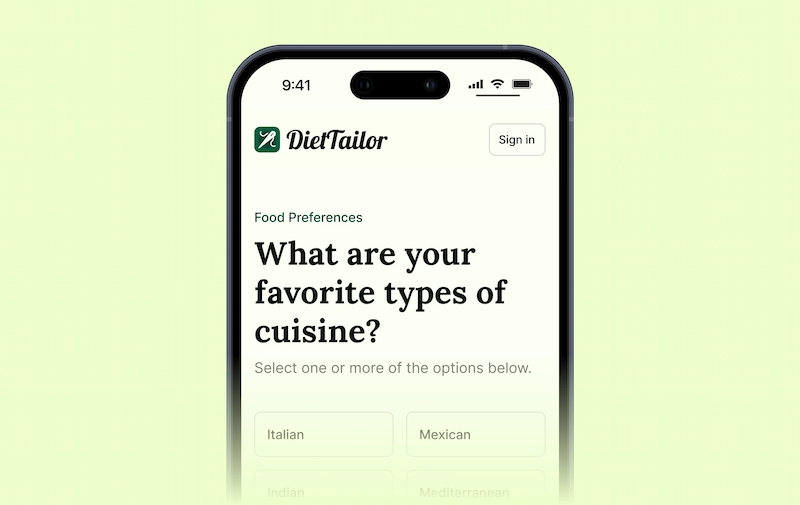
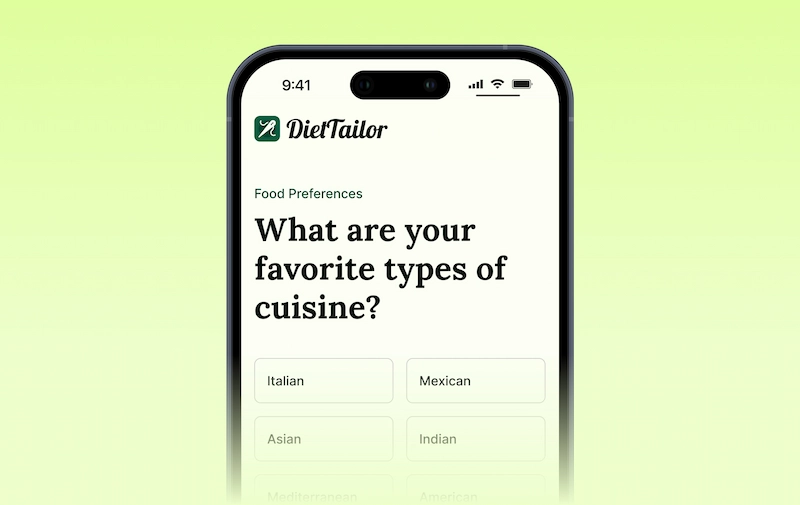
Added homepage content

diff --git a/pages/index.vue b/pages/index.vue
@@ -1,9 +1,11 @@
 <script setup lang="ts">
-import {ArrowDown} from "lucide-vue-next";
+import {ArrowDown, ArrowRight, Bot, Clock, PencilLine, PencilRuler, Utensils} from "lucide-vue-next";
 import stepOneImage from "../assets/images/how-it-works/step-1.webp";
 import stepTwoImage from "../assets/images/how-it-works/step-2.webp";
+import stepThreeImage from "../assets/images/how-it-works/step-3.webp";
 
 definePageMeta({
+  layout: 'landing',
   middleware: 'auth'
 })
 
@@ -19,9 +21,37 @@ const steps = [
     description: "Receive a fully personalized weekly meal plan, generated instantly by AI."
   },
   {
-    image: '',
+    image: stepThreeImage,
     title: "Enjoy & Adjust",
     description: "Easily swap meals, explore new recipes, and fine-tune your plan anytime."
+  }
+]
+
+const features = [
+  {
+    title: "Truly Personalized",
+    description: "Your plan adapts to your exact dietary needs, ensuring every meal is perfect for you.",
+    icon: PencilRuler
+  },
+  {
+    title: "Smart AI-Powered Plans",
+    description: "Our AI generates meal plans with expert precision, considering your preferences and goals.",
+    icon: Bot
+  },
+  {
+    title: "Easily Adjustable",
+    description: "Swap meals and tweak your plan anytime. Flexibility is key to consistency.",
+    icon: PencilLine
+  },
+  {
+    title: "Diverse & Delicious",
+    description: "Get exciting meal suggestions with easy-to-follow recipes. Eating healthy should never be boring!",
+    icon: Utensils
+  },
+  {
+    title: "Saves You Time",
+    description: "No more meal planning stress. We take care of it so you can focus on enjoying your food.",
+    icon: Clock
   }
 ]
 </script>
@@ -33,7 +63,7 @@ const steps = [
           class="bg-clip-text text-transparent bg-gradient-to-br from-primary via-primary to-secondary">Your</span>
         Preferences</h1>
       <p class="text-lg">Get a customized daily meal plan based on your dietary needs, preferences, and health goals.
-        effortless and accurate. All within <strong>minutes</strong>!</p>
+        Effortless and accurate. All within <strong>minutes</strong>!</p>
       <div class="w-full sm:w-auto flex flex-col items-stretch sm:flex-row gap-2 sm:gap-4 mt-10">
         <Button class="group" as-child>
           <NuxtLink to="/wizard">
@@ -50,20 +80,24 @@ const steps = [
         </Button>
       </div>
     </section>
-    <section id="steps" class="mb-16 sm:mb-32">
-      <div class="flex flex-col items-center mb-8 sm:mb-16">
-        <div class="text-primary font-medium mb-4">How it works</div>
-        <h2 class="text-center mb-4">A Meal Plan Within Minutes</h2>
-        <p class="text-center text-muted-foreground">Get you personalized meal planning in just three simple steps.</p>
+    <section id="steps" class="mb-16 sm:mb-40">
+      <div class="flex flex-col sm:flex-row justify-between items-end gap-4 sm:gap-8 mb-8 sm:mb-16">
+        <div class="sm:max-w-xl">
+          <div class="text-primary font-semibold mb-2">How It Works</div>
+          <h1 class="h2">Your Personalized Meal Plan Within Minutes</h1>
+        </div>
+        <p class="text-muted-foreground sm:max-w-lg">With DietTailor, you'll get you personalized meal planning in just
+          three simple steps.</p>
       </div>
       <div class="relative">
-        <div class="md:hidden absolute left-1/2 inset-y-0 w-1 bg-gradient-to-b from-primary to-secondary opacity-50"></div>
-        <div class="hidden md:block absolute top-1/2 inset-x-0 h-1 bg-gradient-to-r from-primary to-secondary opacity-50"></div>
-        <ol class="relative grid md:grid-cols-3 gap-4">
-          <li v-for="(step, index) in steps" class="flex flex-col bg-background border rounded-2xl pt-4 pr-5 pb-5 pl-4">
-<!--            <img :src="step.image" alt="Answer some questions so we get to know you" class="h-48 md:h-56 rounded-xl mb-5 object-cover object-top">-->
+        <ol class="relative grid md:grid-cols-3 justify-center gap-4">
+          <li v-for="(step, index) in steps"
+              class="flex flex-col bg-background border rounded-2xl max-w-sm sm:max-w-none pt-4 pr-5 pb-5 pl-4">
+            <img :src="step.image" alt="Answer some questions so we get to know you"
+                 class="h-48 md:h-56 rounded-xl mb-5 object-cover object-top">
             <div class="flex">
-              <div class="flex items-center justify-center shrink-0 h4 text-primary font-semibold bg-secondary/50 rounded size-8 mr-4">
+              <div
+                  class="flex items-center justify-center shrink-0 h4 text-primary font-semibold bg-secondary/50 rounded-md size-8 mr-4">
                 {{ index + 1 }}
               </div>
               <div>
@@ -77,5 +111,72 @@ const steps = [
         </ol>
       </div>
     </section>
+    <section id="features" class="mb-16 sm:mb-40">
+      <div class="flex flex-col items-center max-w-md text-center mx-auto mb-8 sm:mb-16">
+        <div class="text-primary font-semibold mb-2">Why DietTailor?</div>
+        <h1 class="h2 mb-4">Smart, flexible and 100% personalized</h1>
+      </div>
+      <div class="relative">
+        <div
+            class="absolute top-1/2 left-1/2 -translate-x-1/2 -translate-y-1/2 bg-gradient-to-br from-primary to-secondary blur-[128px] w-3/4 h-1/2 rounded-full rotate-6 opacity-40 -z-10"></div>
+        <ul class="flex flex-wrap justify-center gap-4">
+          <li v-for="feature in features"
+              class="flex flex-row sm:flex-col sm:items-center bg-background/60 backdrop-blur-xl border text-left sm:text-center rounded-xl p-4 sm:p-6 w-full md:max-w-sm">
+            <div class="grid place-items-center shrink-0 size-9 bg-secondary/50 rounded-md mr-4 sm:mr-0 sm:mb-4">
+              <component :is="feature.icon" class="size-6 text-primary"/>
+            </div>
+            <div>
+              <h3 class="h4 mb-1 mt-1 sm:mt-0">{{ feature.title }}</h3>
+              <p class="text-sm text-muted-foreground">
+                {{ feature.description }}
+              </p>
+            </div>
+          </li>
+        </ul>
+      </div>
+    </section>
+    <section id="cta" class="mb-16 sm:mb-40">
+      <div
+          class="flex flex-col sm:flex-row justify-between items-center sm:items-end bg-gradient-to-r from-secondary/60 to-lime-500/60 text-secondary-foreground rounded-3xl p-6 sm:p-8 md:p-10 sm:pb-0 md:pb-0">
+        <div class="max-w-md md:max-w-xl mb-6 sm:mb-10">
+          <h1 class="sm:h2 md:h1 mb-4">Get Your Personalized Plan</h1>
+          <p class="font-medium">Start today and enjoy meals tailored to your taste, goals, and lifestyle. Effortless,
+            healthy, and delicious!</p>
+          <Button class="group mt-8" as-child>
+            <NuxtLink to="/wizard">
+              Create your meal plan
+              <ArrowRight class="group-hover:translate-x-0.5 duration-150"/>
+            </NuxtLink>
+          </Button>
+        </div>
+        <img src="../assets/images/cta-illustration.svg" alt=""
+             class="order-first sm:order-last h-64 md:h-80 lg:mr-16 xl:mr-24 mb-8 sm:mb-0 -mt-12 sm:mt-auto"/>
+      </div>
+    </section>
   </div>
+  <footer class="bg-muted/50 py-12 sm:py-8">
+    <div class="container">
+      <div class="flex flex-col sm:flex-row sm:items-end justify-between">
+        <div>
+          <img src="../assets/images/logo.svg" alt="DietTailor" class="h-8 mb-4"/>
+          <div class="text-sm text-muted-foreground">Copyright ©{{ $dayjs().format('YYYY') }} DietTailor</div>
+        </div>
+        <Separator class="my-6"/>
+        <nav>
+          <ul class="flex gap-8">
+            <li>
+              <NuxtLink to="/privacy-policy" class="text-sm text-muted-foreground hover:underline duration-150">
+                Privacy Policy
+              </NuxtLink>
+            </li>
+            <li>
+              <NuxtLink to="/terms-of-service" class="text-sm text-muted-foreground hover:underline duration-150">
+                Terms of Service
+              </NuxtLink>
+            </li>
+          </ul>
+        </nav>
+      </div>
+    </div>
+  </footer>
 </template>

diff --git a/components/layout/Header.vue b/components/layout/Header.vue
@@ -3,6 +3,10 @@ import type {Database} from "~/types/database.types";
 import {User, LogOut, Settings} from 'lucide-vue-next'
 import {DropdownMenu} from "~/components/ui/dropdown-menu";
 
+const props = defineProps<{
+  wide?: boolean
+}>()
+
 const supabase = useSupabaseClient<Database>()
 const user = useSupabaseUser()
 
@@ -10,11 +14,13 @@ const logOut = async () => {
   await supabase.auth.signOut()
   navigateTo('/sign-in')
 }
+
+const layoutContainer = resolveComponent('layout-container')
 </script>
 
 <template>
   <header>
-    <LayoutContainer>
+    <component :is="props.wide ? 'div' : layoutContainer" :class="{'container': props.wide}">
       <nav class="h-[var(--header-height)] flex justify-between items-center">
         <div class="flex items-center">
           <NuxtLink to="/">
@@ -71,6 +77,6 @@ const logOut = async () => {
           </NuxtLink>
         </Button>
       </nav>
-    </LayoutContainer>
+    </component>
   </header>
 </template>

diff --git a/pages/(legal)/privacy-policy.vue b/pages/(legal)/privacy-policy.vue
@@ -1,11 +1,16 @@
 <script setup lang="ts">
 import {APP_NAME, SUPPORT_EMAIL} from '~/constants'
+import {ArrowLeft} from "lucide-vue-next";
 
 const lastUpdated = '30-03-2025'
 </script>
 
 <template>
   <div class="container max-w-3xl mx-auto">
+    <Button @click="$router.back()" variant="ghost" size="sm" class="-ml-4 mb-6">
+      <ArrowLeft/>
+      Go back
+    </Button>
     <h1 class="text-4xl mb-4">{{ APP_NAME }} Privacy Policy</h1>
     <p><strong>Last Updated: {{ lastUpdated }}</strong></p>
     <p>

diff --git a/pages/(legal)/terms-of-service.vue b/pages/(legal)/terms-of-service.vue
@@ -1,11 +1,16 @@
 <script setup lang="ts">
 import {APP_NAME, SUPPORT_EMAIL} from '~/constants'
+import {ArrowLeft} from "lucide-vue-next";
 
 const lastUpdated = '28-03-2025'
 </script>
 
 <template>
   <div class="container max-w-3xl mx-auto">
+    <Button @click="$router.back()" variant="ghost" size="sm" class="-ml-4 mb-6">
+      <ArrowLeft/>
+      Go back
+    </Button>
     <h1 class="text-4xl mb-4">{{ APP_NAME }} Terms of Service</h1>
     <p><strong>Last Updated: {{lastUpdated}}</strong></p>
     <p>

diff --git a/layouts/landing.vue b/layouts/landing.vue
@@ -10,9 +10,9 @@ const toastStore = useToastStore();
   <NuxtLoadingIndicator color="hsl(var(--primary))"/>
 
   <main class="h-svh flex flex-col">
-    <Header/>
+    <Header :wide="true"/>
 
-    <div class="flex-1 py-8">
+    <div class="flex-1 pt-8">
       <slot/>
     </div>
 
